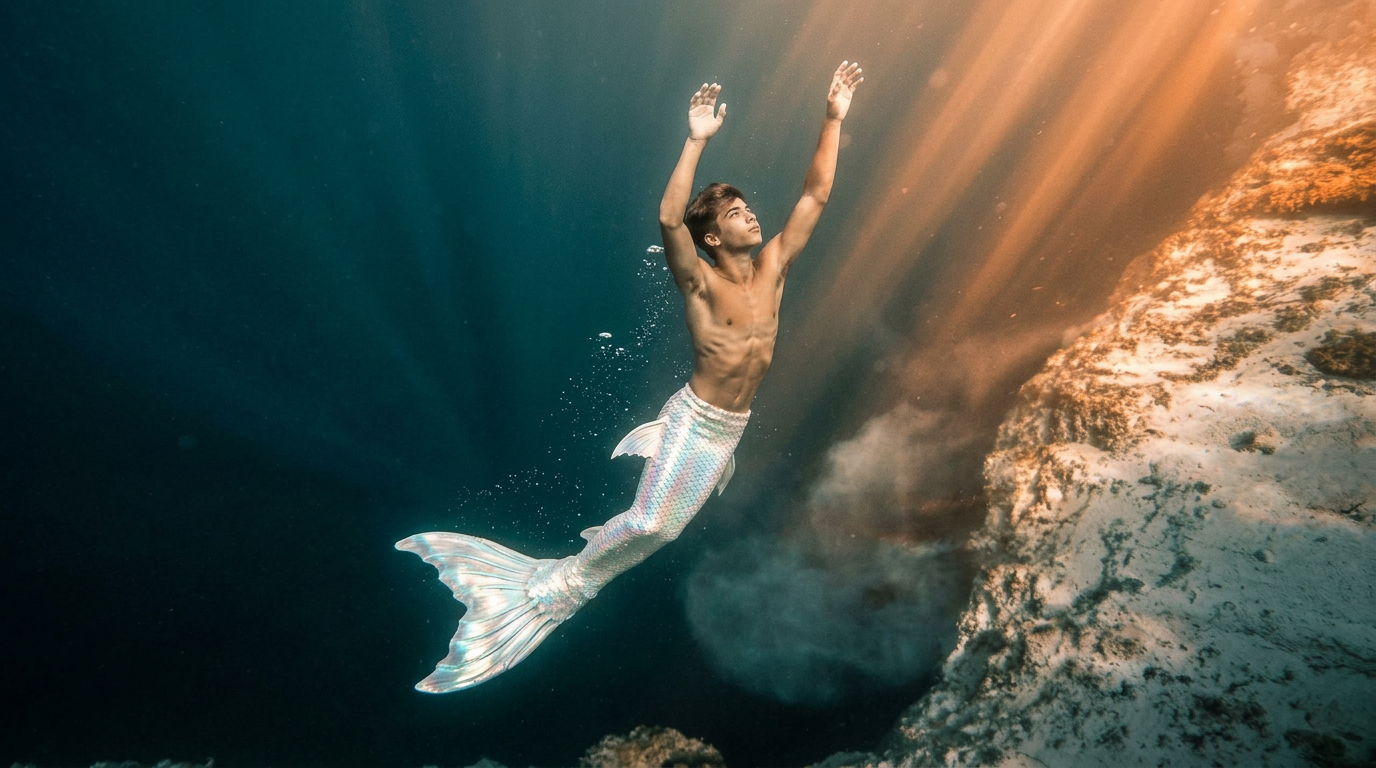
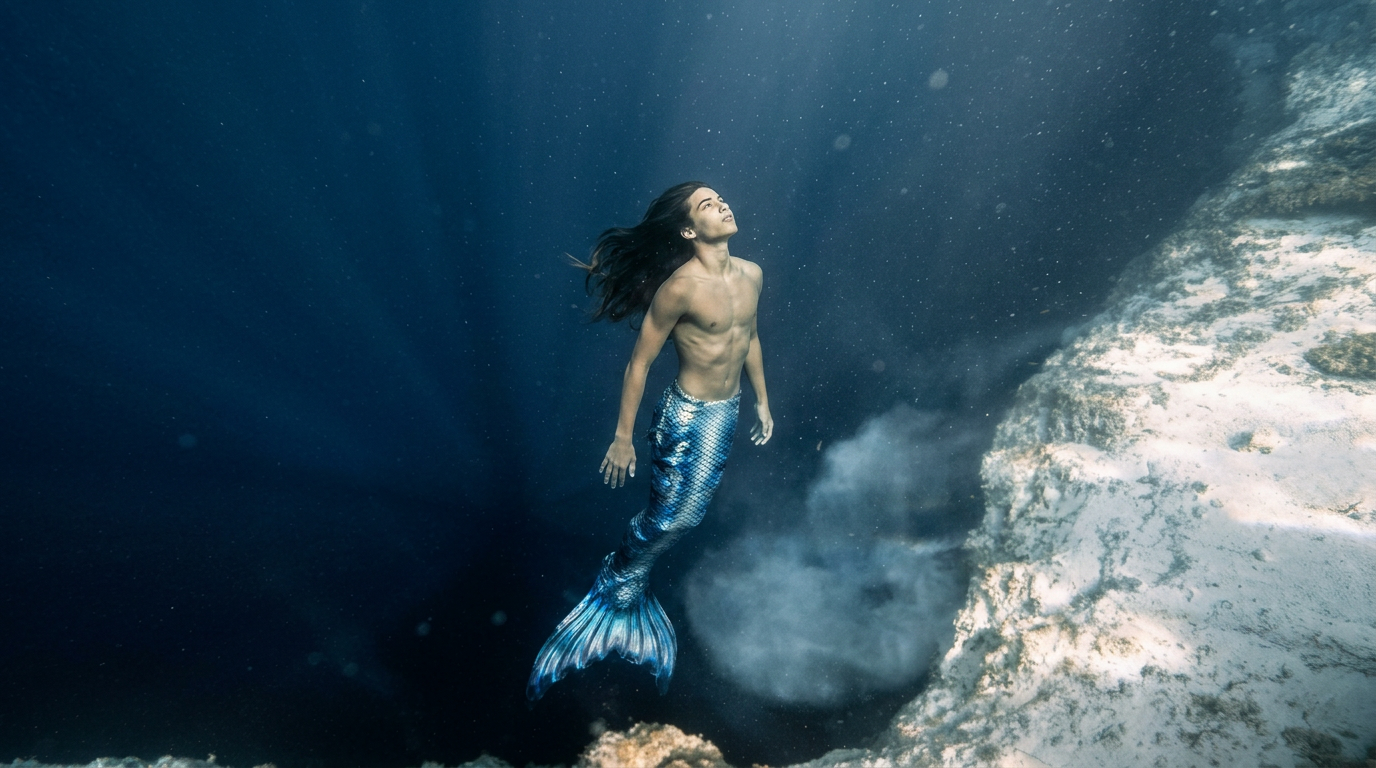
Reverted to commit b2ab8d6ae2b9f94b37c5f108bbcde571631b2556

diff --git a/src/components/memoir/Hero.tsx b/src/components/memoir/Hero.tsx
@@ -8,7 +8,7 @@ export const Hero = () => {
       <div className="absolute inset-0">
         <img
           src={heroImg}
-          alt="A teenaged merman with short dark hair and a crystal-white iridescent tail swimming upward through an underwater sinkhole, arms stretched overhead"
+          alt="A teenaged merman with long dark hair and an iridescent blue tail rising from the deep blue abyss of an underwater sinkhole"
           className="h-full w-full object-cover ken-burns"
           fetchPriority="high"
         />
